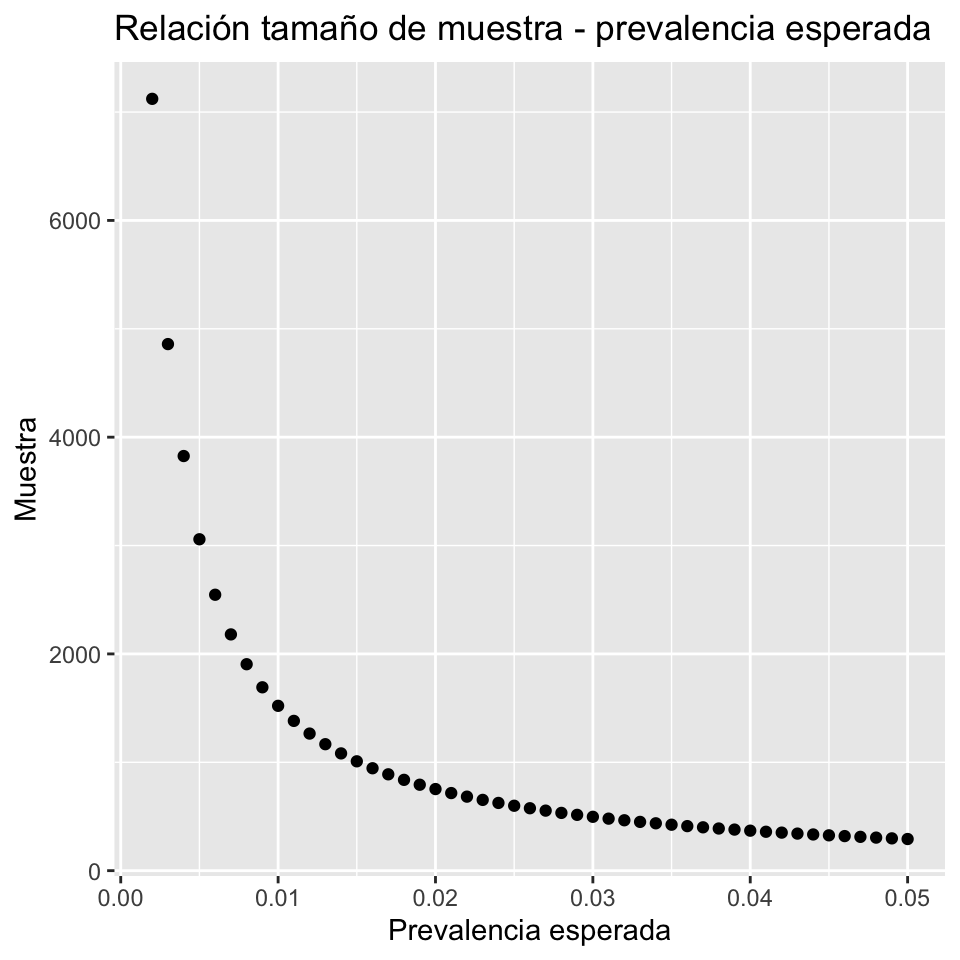
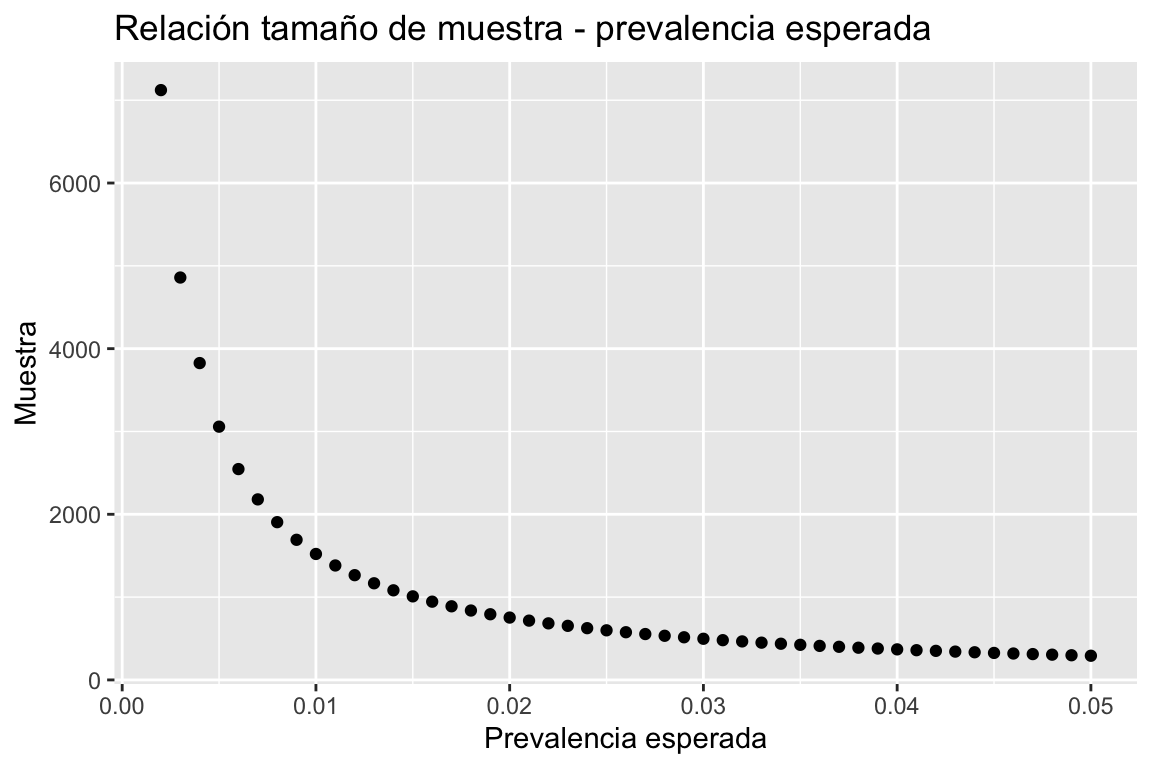
update

diff --git a/content/post/salud/2020-04-15-calculo-muestral-para-un-estudio-de-prevalencia-de-coronavirus-en-el-ecuador.html b/content/post/salud/2020-04-15-calculo-muestral-para-un-estudio-de-prevalencia-de-coronavirus-en-el-ecuador.html
@@ -9,41 +9,120 @@ categories:
 tags:
   - Coronavirus
 description: ''
-hidden: true
+references:
+  - id: naing2006practical
+    title: Practical issues in calculating the sample size for prevalence studies
+    author:
+      - family: Naing
+        given: L
+      - family: Winn
+        given: T
+      - family: Rusli
+        given: BN
+    container-title: Archives of orofacial Sciences
+    volume: 1
+    page: 9-14
+    type: article-journal
+    issued:
+      year: 2006
+link-citations: true
 ---
 
 <script src="/rmarkdown-libs/header-attrs/header-attrs.js"></script>
 
 
-<p>En un artículo anterior mencioné que era necesario hacer un estudio de prevalencia a través de pruebas aleatorias de coronavirus una vez que empiece a disminuir su demanda en las distintas provincias. Las pruebas aleatorias permiten obtener un mejor estimado del porcentaje de contagio (formalmente conocido como prevalencia) y, a su vez, corroborar si el número de casos positivos realmente está disminuyendo o no. Utilizando métodos estadísticos utilizados en medicina y otras ciencias, calculamos que en el escenario “menos conservador”, el gobierno debería hacer al menos 1,009 pruebas aleatorias por provincia y aquellos cantones mayormente afectados.</p>
-<p>Solo a través de un estudio prevalencia, las autoridades gubernamentales pueden estimar el porcentaje real de casos de coronavirus en el Ecuador y basarse en estadísticas reales para la toma de decisiones. Desde el lunes se aplica un semáforo que indicará si puede o no flexibilizarse la cuarentena en ciertas provincias o cantones. De subestimarse el grado de contagio en cierto sector del país y flexibilizar el distanciamiento social, ponemos poner en riesgo la vida de quienes viven ahí y empeorar el grado de contagio.</p>
-<p>Es cierto que ya, de por sí, existe una escasez de pruebas en el país. Sin embargo, soy optimista en que con la política de distanciamiento social implementada desde hace un mes, poco a poco disminuirá la demanda de pruebas de coronavirus. Cuando eso empiece a suceder, el gobierno deberá inmediatamente realizar pruebas aleatorias por provincia o cantón antes de anunciar el cese a la cuarentena. Adicionalmente, poco a poco ha empezado el gobierno central a aumentar su capacidad de hacer pruebas, mientras que los gobiernos locales también empiezan a adquirir pruebas rápidas para sus habitantes.</p>
-<p>Cuando mencioné que debería realizarse al menos 1,009 pruebas por provincia en el escenario “menos conservador”, quise denotar que tal número tal vez no produzca una estimación óptima del porcentaje real de casos. Hasta cierto punto, más pruebas generan una mejor estimación. En el óptimo de los escenarios, se deberían hacer más pruebas aleatorias por provincia e incluso realizar estudios de prevalencia a nivel de cantones (por lo menos en aquellos más afectados como Guayaquil, Samborondón y Daule). ¿Cuántas pruebas son necesarias? Te invitamos a leer la metodología en la siguiente sección y a reproducir los resultados descargándote el código en nuestro github.</p>
+<p>En un artículo anterior mencioné que era necesario hacer un estudio de prevalencia a través de pruebas aleatorias de coronavirus una vez que empiece a disminuir su demanda en las distintas provincias. Las pruebas aleatorias permiten obtener un mejor estimado del porcentaje de contagio (formalmente conocido como prevalencia) y, a su vez, corroborar si el número de casos positivos realmente está disminuyendo o no. Afortunadamente, la capacidad del gobierno de hacer pruebas ha aumentado y ellos mismos ya han empezado a realizar pruebas aleatorias a través de un muestreo probabilístico en cada cantón.</p>
+<p>Utilizando métodos estadísticos utilizados en medicina y otras ciencias, calculamos que en el escenario “menos conservador”, el gobierno debería hacer al menos 1500 pruebas aleatorias por población de estudio (provincia o cantón), y en un escenario “más conservador” hasta 3000 pruebas. Solo a través de un estudio prevalencia, las autoridades gubernamentales pueden estimar el porcentaje real de casos de coronavirus en el Ecuador y basarse en estadísticas reales para la toma de decisiones. Desde el lunes se aplica un semáforo que indicará si puede o no flexibilizarse la cuarentena en ciertas provincias o cantones. De subestimarse el grado de contagio en cierto sector del país y flexibilizar el distanciamiento social, ponemos poner en riesgo la vida de quienes viven ahí y empeorar el grado de contagio.</p>
+<p>Cuando mencioné que debería realizarse al menos 1500 pruebas por cantón en el escenario “menos conservador”, quise denotar que tal número tal vez no produzca una estimación óptima del porcentaje real de casos. Ciertamente, más pruebas generan una mejor estimación. Sin embargo, más allá de 3000 pruebas no logramos disminuir significativamente el margen de error y estaríamos generando un desperdicio. Te invitamos a leer la metodología en la siguiente sección y a reproducir los resultados utilizando el código al final del este artículo.</p>
 <div id="metodología" class="section level4">
 <h4>Metodología</h4>
-<p>En estadística, el tamaño de la muestra (<span class="math inline">\(n\)</span>) depende esencialmente de tres variables: el nivel de confianza del parámetro (<span class="math inline">\(z\)</span>), la precisión o margen de error (<span class="math inline">\(d\)</span>) y la prevalencia esperada o porcentaje esperado de contagio (<span class="math inline">\(P\)</span>). La fórmula es la siguiente:</p>
+<p>En estadística, el tamaño de la muestra (<span class="math inline">\(n\)</span>) depende esencialmente de tres variables: el nivel de confianza del parámetro (<span class="math inline">\(z\)</span>), la precisión o margen de error (<span class="math inline">\(d\)</span>) y la prevalencia esperada o porcentaje esperado de contagio (<span class="math inline">\(P\)</span>) <span class="citation">(Naing, Winn, and Rusli <a href="#ref-naing2006practical" role="doc-biblioref">2006</a>)</span>. La fórmula es la siguiente:</p>
 <center>
 <span class="math inline">\(\large n = \frac{z^2P(1-P)}{d^2}\)</span> , donde <span class="math inline">\(d = P/2\)</span>
 </center>
 <p><br /></p>
-<p>Para entender las variables anteriores plantearemos un ejercicio hipotético. Imaginemos que deseáramos calcular el porcentaje de fumadores hombres en Ecuador y utilizármos un nivel de confianza (<span class="math inline">\(z\)</span>) del 95% y un margen de error (<span class="math inline">\(d\)</span>) del 5%. Si al final del estudio hallamos que el 20% de los individuos en nuestra muestra son fumadores, un margen de error del 5% significaría que el porcentaje de fumadores de la población total estaría en un margen del 15% al 25% (20% ± 5%). Por otra parte, un nivel de confianza del 95% significaría que si repitiéramos este ejercicio infinitamente, en el 95% de los casos el porcentaje de fumadores caería dentro del intervalo del 15% y 25%.</p>
+<p>Para entender las variables anteriores plantearemos un ejercicio hipotético. Imaginemos que deseáramos calcular el porcentaje de fumadores hombres en Ecuador y utilizáramos un nivel de confianza (<span class="math inline">\(z\)</span>) del 95% y un margen de error (<span class="math inline">\(d\)</span>) del 5%. Si al final del estudio halláramos que el 20% de los individuos en nuestra muestra son fumadores, un margen de error del 5% significaría que el porcentaje de fumadores de la población total estaría en un margen del 15% al 25% (20% ± 5%). Por otra parte, un nivel de confianza del 95% significaría que si repitiéramos este ejercicio infinitamente, en el 95% de los casos el porcentaje de fumadores caería dentro del intervalo del 15% y 25%.</p>
 <p>Volviendo al cálculo de prevalencia de coronavirus, un detalle importante de la fórmula es que el margen de error (<span class="math inline">\(d\)</span>) depende del porcentaje esperado de contagio (<span class="math inline">\(P\)</span>), el cual es un valor que nosotros mismos asignamos basándonos en una hipótesis o conjetura. Por ejemplo, si asumimos para el cálculo muestral que el 2% de los habitantes de la provinicia del Guayas están contagiados (<span class="math inline">\(P = 2\%\)</span>), necesitaremos usar una precisión del 1% (<span class="math inline">\(d = 2\%/2\)</span>).</p>
 <p>Si colocamos diferentes valores de <span class="math inline">\(P\)</span> en la formula anteriormente descrita, obtendremos los siguientes tamaños de muestra:</p>
-<p><img src="/post/salud/2020-04-15-calculo-muestral-para-un-estudio-de-prevalencia-de-coronavirus-en-el-ecuador_files/figure-html/unnamed-chunk-2-1.png" width="480" style="display: block; margin: auto;" /></p>
-<p>No debería sorpendernos que mientras menor sea el porcentaje de contagio esperado, mayor será el tamaño de la muestra. Esto se debe a que se hace cada vez más difícil encontrar casos positivos de coronavirus y estimar con mayor exactitud el porcentaje de contagio de la población se vuelve más un desafío. Asimismo, mientras mayor es el porcentaje esperado, menor es el tamaño de muestra necesario para inferir correctamente sobre la población total. Podemos notar también que a partir del 1.5% hacia abajo, el número se empieza a tener al infinito. Incluso para valores muy pequeños de <span class="math inline">\(P\)</span>, una muestra muy grande se vuelve incesaria y costosa. Mi recomendación (y esta es ya mi opinión) es apuntar a una <span class="math inline">\(P\)</span> de entre 0.5% y 1.5% (es decir, una muestra por provincia de aproximadamente 1000 a 3000 individuos). Utilicemos una <span class="math inline">\(P\)</span> de 1.5% para ver cómo se aplica la fórmula.</p>
+<p><img src="/post/salud/2020-04-15-calculo-muestral-para-un-estudio-de-prevalencia-de-coronavirus-en-el-ecuador_files/figure-html/unnamed-chunk-2-1.png" width="576" style="display: block; margin: auto;" /></p>
+<p>No debería sorprendernos que mientras menor sea el porcentaje de contagio esperado, mayor será el tamaño de la muestra. Esto se debe a que se hace cada vez más difícil encontrar casos positivos de coronavirus y estimar con mayor exactitud el porcentaje de contagio de la población se vuelve más un desafío. Asimismo, mientras mayor es el porcentaje esperado, menor es el tamaño de muestra necesario para inferir correctamente sobre la población total. Podemos notar también que a partir del 1.5% hacia abajo, el número se empieza a tener al infinito. Incluso para valores muy pequeños de <span class="math inline">\(P\)</span>, una muestra muy grande se vuelve innecesaria y costosa. Mi recomendación (y esta es ya mi opinión) es apuntar a una <span class="math inline">\(P\)</span> de entre 0.5% y 1% (es decir, una muestra por provincia de aproximadamente 1500 a 3000 individuos). Utilicemos una <span class="math inline">\(P\)</span> de 1% para ver cómo se aplica la fórmula.</p>
 <center>
-<span class="math inline">\(\large n = \frac{1.96^20.015(1-0.015)}{0.0075^2} = 1009\)</span>
+<span class="math inline">\(\large n = \frac{1.96^20.01(1-0.01)}{0.005^2} = 1521\)</span>
 </center>
 <p><br /></p>
 <p><strong>Cómo estimar la prevalencia esperada (<span class="math inline">\(P\)</span>)</strong></p>
 <p>En la práctica, para construir un mejor estimado de <span class="math inline">\(P\)</span> se recomienda utilizar el resultado de estudios de prevalencia previamente hechos. Sin embargo, dado que este es un virus nuevo que aún estamos tratando de entender y que las estadísticas de contagio pueden estar muy segadas, no contamos con ningún estimado apropiado. Podríamos intentar dividir el número de casos confirmados de cada país para el total de sus habitantes y compararlo con el número de pruebas hechas, y así tratar de estimar un valor para <span class="math inline">\(P\)</span>.</p>
 <p>Como podemos ver en el gráfico inferior, el porcentaje de contagio (confirmado) está altamente correlacionado al número de pruebas hechas. Esto tampoco debería sorprendernos ya que la manera más sencilla de no tener casos confirmados es no haciendo pruebas. Sin embargo, incluso tomando en cuenta este sesgo, podemos ver que los países que realizan mayor número de pruebas (a la derecha del eje horizontal) también poseen un bajo porcentaje de contagio (menor al 0.5%). Se ha dicho que mientras más pruebas se realizan, es más fácil rastrear a tiempo a los contagiados y distanciarlos en sus casas (como es el caso de Corea del Sur). Aunque estos países no sean el <em>benchmark</em> más indicado, podríamos apuntar en nuestro cálculo muestral a un <span class="math inline">\(P\)</span> del 0.5%. Anteriormente realizamos un cálculo muestral considerando un <span class="math inline">\(P\)</span> de 1.5% y obtuvimos un tamaño de muestral (por provincia o cantón) de 1,009. Ahora, si consideramos un <span class="math inline">\(P\)</span> de 0.5%, y colocamos los valores en la fórmula, el tamaño de la muestra será de <span class="math inline">\(n = \frac{1.96^20.005(1-0.005)}{0.0025^2}\)</span>, lo cual equivale a 3,058.</p>
-<p><img src="/post/salud/2020-04-15-calculo-muestral-para-un-estudio-de-prevalencia-de-coronavirus-en-el-ecuador_files/figure-html/unnamed-chunk-4-1.png" width="672" /></p>
+<img src="/post/salud/2020-04-15-calculo-muestral-para-un-estudio-de-prevalencia-de-coronavirus-en-el-ecuador_files/figure-html/unnamed-chunk-4-1.png" width="672" />
+Fuente: Foundation for Innovative New Diagnostics
+<p>
+<font size="1">*Datos extraídos el 20 de abril de 2020</font>
+</p>
 <p><strong>Cómo incluir el tamaño de la población en el cálculo de la muestra</strong></p>
-<p>La fórmula que usamos anteriormente <span class="math inline">\(n = \frac{z^2P(1-P)}{d^2}\)</span> asume que el tamaño de la población (<span class="math inline">\(N\)</span>), de la cual queremos estimar el porcentaje de contagio, es “grande” (o dicho jerga estadística “infinita”). Matemáticamente, esta fórmula asume que el tamaño de la muestra no debe ser superior al 5% del tamaño de la población o <span class="math inline">\(n/N &lt; 5\%\)</span>. En caso de que la muestra sea mayor al 5% de la población, consideraremos a la población como “finita” y, por consiguiente, añadiremos al tamaño del la población (<span class="math inline">\(N\)</span>) como variable en el modelo. La fórmula es la siguiente:</p>
+<p>La fórmula que usamos anteriormente <span class="math inline">\(n = \frac{z^2P(1-P)}{d^2}\)</span> asume que el tamaño de la población (<span class="math inline">\(N\)</span>), de la cual queremos estimar el porcentaje de contagio, es “grande” (o dicho jerga estadística “infinita”). Matemáticamente, esta fórmula asume que el tamaño de la muestra no debe ser superior al 5% del tamaño de la población o <span class="math inline">\(n/N &lt; 5\%\)</span>. En caso de que la muestra sea mayor al 5% de la población, consideraremos a la población como “finita” y, por consiguiente, añadiremos al tamaño de la población (<span class="math inline">\(N\)</span>) como variable en el modelo. La fórmula es la siguiente:</p>
 <center>
 <span class="math inline">\(\large n = \frac{N(z^2)P(1-P)}{d^2(N-1)+z^2P(1-P)}\)</span>
 </center>
 <p><br /></p>
-<p>Digamos que deseamos realizar pruebas aleatorias en el cantón Baños de la provincia de Tungurahua. Este cantón tiene aproximadamente 25000 habitantes. Primero intentamos utilizar la primera fórmula que presentamos, la cual considera a la población como “infinita”. Considerando una prevalencia esperada <span class="math inline">\(P\)</span> de 0.5%, obtenemos una muestra <span class="math inline">\(n = \frac{1.96^20.005(1-0.005)}{0.0025^2}\)</span> equivalente a 3,058. Sin embargo, si dividimos este valor para el tamaño de la población, nos damos cuenta que el la muestra es 12% de la población, mayor al umbral del 5% que habíamos establecido. En esta caso, nos tocaría utilizar la segunda fórmula <span class="math inline">\(n = \frac{25000(1.96^2)0.005(1-0.005)}{0.0025^2(25000-1)+1.96^20.005(1-0.005)}\)</span>, de la cual obtenemos una muestra de 2,725 individuos.</p>
+<p>Digamos que deseamos realizar pruebas aleatorias en el cantón Baños de la provincia de Tungurahua. Este cantón tiene aproximadamente 25000 habitantes. Primero intentamos utilizar la primera fórmula que presentamos, la cual considera a la población como “infinita”. Considerando una prevalencia esperada <span class="math inline">\(P\)</span> de 0.5%, obtenemos una muestra <span class="math inline">\(n = \frac{1.96^20.005(1-0.005)}{0.0025^2}\)</span> equivalente a 3,058. Sin embargo, si dividimos este valor para el tamaño de la población, nos damos cuenta que la muestra es 12% de la población, mayor al umbral del 5% que habíamos establecido. En esta caso, nos tocaría utilizar la segunda fórmula <span class="math inline">\(n = \frac{N(z^2)P(1-P)}{d^2(N-1)+z^2P(1-P)}\)</span>, de la cual obtenemos una muestra de 2,725 individuos. El cálculo es el siguiente:</p>
+<center>
+<span class="math inline">\(\large n = \frac{25000(1.96^2)0.005(1-0.005)}{0.0025^2(25000-1)+1.96^20.005(1-0.005)} = 2725\)</span>
+</center>
+<p><br /></p>
+</div>
+<div id="bibligrafía" class="section level4">
+<h4>Bibligrafía</h4>
+<div id="refs" class="references hanging-indent">
+<div id="ref-naing2006practical">
+<p>Naing, L, T Winn, and BN Rusli. 2006. “Practical Issues in Calculating the Sample Size for Prevalence Studies.” <em>Archives of Orofacial Sciences</em> 1: 9–14.</p>
+</div>
+</div>
+</div>
+<div id="apéndice" class="section level4">
+<h4>Apéndice</h4>
+<p>Si usas R y deseas reproducir los ejemplos en este artículo o realizar cualquier cálculo muestral, te invitamos a utilizar el código siguiente.</p>
+<pre class="r"><code># ---------- Sample size formula ----------
+
+sample_size &lt;- function(z = 1.96, P = 0.5, d = 0.05, N) {
+  # We set a default of z = 1.96, expected prevalence or proportion (P) = 0.5, 
+  # precision (d) = 0.05, N is an optional argument
+  
+  d = ifelse(P &gt; 0.9, (1-P)/2, # For common cases, we consider d = (1 -p)/2
+             ifelse(P &lt; 0.1, P/2, d)) # For rare cases, we consider d = p/2
+  
+  # Formula considering infinite population:
+  n = z^2 * P * (1 - P) / d^2
+  
+  # We check if N is provided
+  if(missing(N)){
+    return(round(n))
+  } else {
+    
+    # If n &gt; N * 0.05, we consider a finite population
+    if(n &gt; N * 0.05){
+      # Formula considering infinite population:
+      n = N * z^2 * P * (1 - P) / 
+        ( d^2 * (N - 1) + z^2 * P * (1 - P))
+      return(round(n))
+    } else {
+      return(round(n))
+    }
+  }
+}
+
+sample_size &lt;- Vectorize(sample_size) # We vectorize the arguments of the function
+
+# ---------- Simulating different sample sizes ----------
+
+lambda &lt;- seq(from = 0.99, to = 0.01, by = -0.01) # expected prevalences
+
+# We calculate different sample sizes using the different prevalences
+sample &lt;- sapply(lambda, function(l){
+  sample &lt;- sample_size(P = l)
+  return(sample)
+})
+
+df &lt;- data.frame(P = lambda, Muestra = sample) # data frame to create the plot
+plot(df)</code></pre>
+<p><img src="/post/salud/2020-04-15-calculo-muestral-para-un-estudio-de-prevalencia-de-coronavirus-en-el-ecuador_files/figure-html/unnamed-chunk-5-1.png" width="672" /></p>
 </div>
